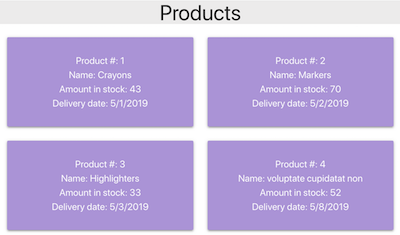
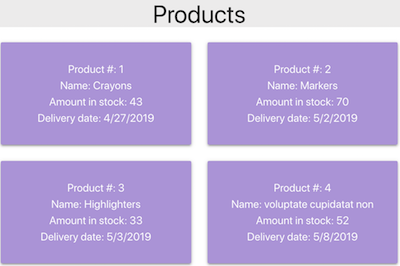
Updates to README.md

diff --git a/README.md b/README.md
@@ -9,12 +9,19 @@ Table of Contents
 Created by [gh-md-toc](https://github.com/ekalinin/github-markdown-toc)  
 # Project Overview
 
-This project is a React app which displays details for a list of products, such as product id number, product name, amount in inventory, etc. The app will calculate the delivery date of each product based on a maximum number of shipping days, and a flag indicating whether the product ships on weekends or just business days.
+This project is a React app which displays details for a list of products, such as product id number, product name, amount in inventory, etc. The app will calculate the ship date of a product based on a maximum number of shipping days, and a flag indicating whether the product ships on weekends or just business days.
 
 ## Installation
 
-This project was built with node version  v11.13.0, npx version 6.7.0. The project also uses Materialize CSS.
+This project was built using create-react-app with node version  v11.13.0 and npx version 6.7.0. The project also uses Materialize CSS (visit <https://materializecss.com> for more information.)
 
+The app runs from a project directory named "shipping".  
+Clone the repo, and execute the following:  
+```bash
+cd shipping
+npm install
+npm start
+```
 ## Project Description
 Domain: e-Commerce Shipping  
 Interface: Web UI (SPA)
@@ -27,5 +34,5 @@ Basic information for each product (product #, name, amount in stock) is display
 ![](./doc_imgs/shipping-1.png)
 ![](./doc_imgs/shipping-2.png)
 
-Observe that the ship date for product 1 is pushed out to May 1 in the second screenshot when its shipOnWeekends status is set to false.
+> Observe that the ship date for product 1 is pushed out to May 1 in the second screenshot when its shipOnWeekends status is set to false.
 
